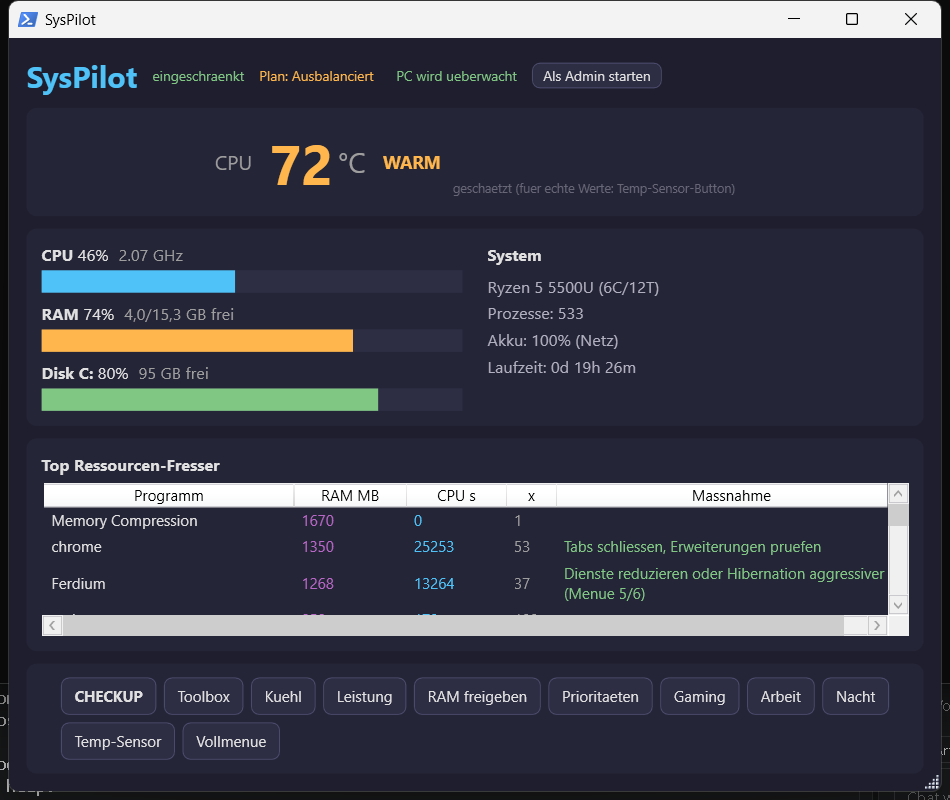
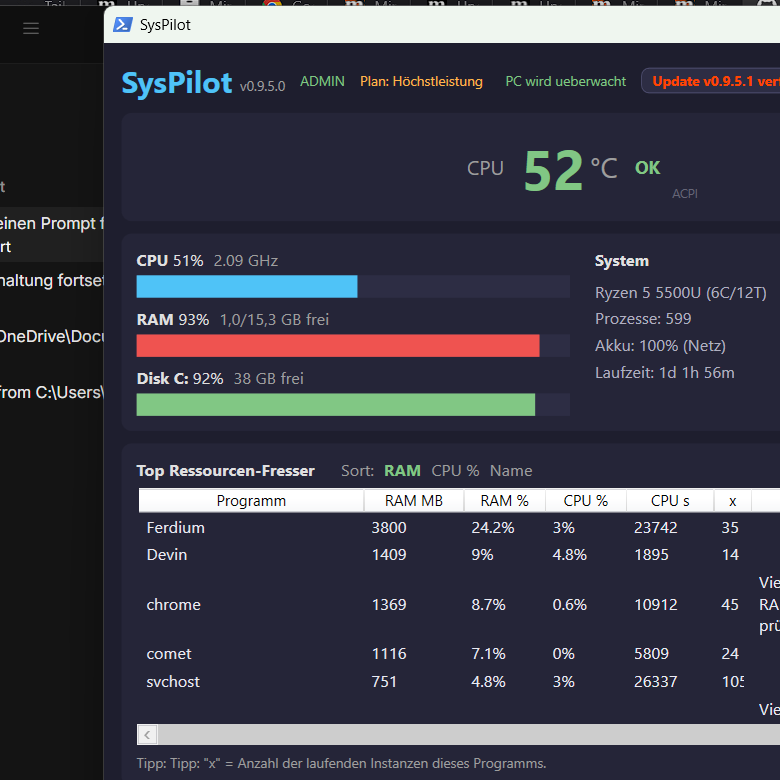
docs: README-Screenshots aktualisiert (GUI, Checkup, Toolbox 63 Tools)
Generated with Devin

diff --git a/README.md b/README.md
@@ -384,9 +384,9 @@ Der Laptop-Lüfter hat 70 € gekostet — jetzt läuft er kühl
   <br>
   <sub>Automatic Checkup: 14 Bereiche, ehrlich erklärt, echt repariert — Fixes einzeln abwählbar</sub>
   <br><br>
-  <img src="assets/screenshot-toolbox.png" alt="Toolbox — 24 Werkzeuge in 4 Kategorien mit Erklärungen" width="700">
+  <img src="assets/screenshot-toolbox.png" alt="Toolbox — 63 Werkzeuge in 5 Kategorien mit Erklärungen" width="700">
   <br>
-  <sub>Toolbox: 24 Werkzeuge nach Kategorie, jedes mit verständlicher Erklärung</sub>
+  <sub>Toolbox: 63 Werkzeuge nach Kategorie, jedes mit verständlicher Erklärung</sub>
 </p>
 
 ---
